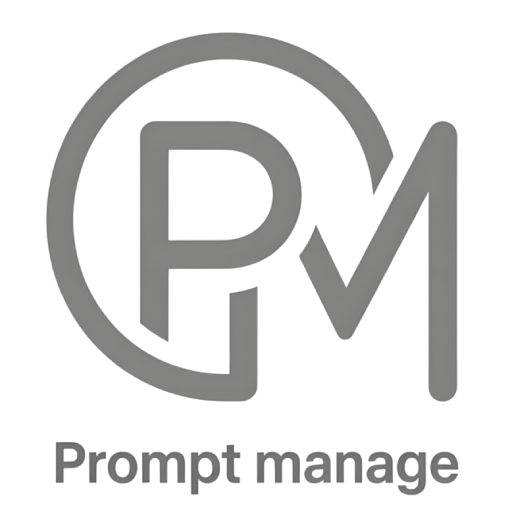
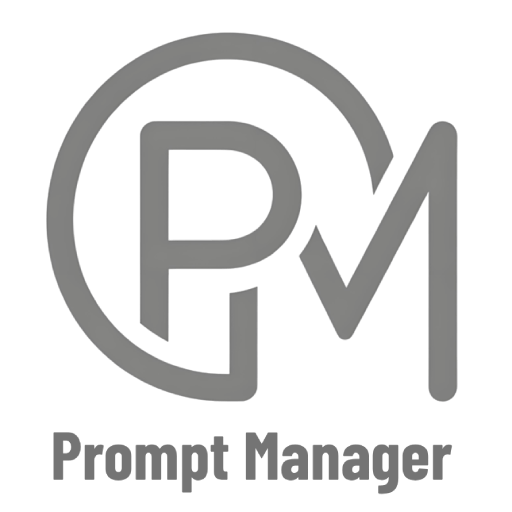
update repo name

Changed region(s): [[0.0938, 0.8438, 0.9062, 0.9688]]

diff --git a/app/desktop/main.js b/app/desktop/main.js
@@ -35,8 +35,8 @@ async function ensureRuntimeServerRoot() {
     return runtimeServerRoot;
   }
 
-  const packagedRoot = path.join(process.resourcesPath, 'prompt-server');
-  const runtimeRoot = path.join(app.getPath('userData'), 'prompt-server');
+  const packagedRoot = path.join(process.resourcesPath, 'prompt-manager');
+  const runtimeRoot = path.join(app.getPath('userData'), 'prompt-manager');
 
   try {
     await fs.promises.access(runtimeRoot, fs.constants.F_OK);
@@ -297,7 +297,7 @@ async function checkForUpdates() {
   try {
     const currentVersion = await getCurrentServiceVersion();
 
-    const response = await fetch('https://registry.npmjs.org/@becrafter/prompt-server');
+    const response = await fetch('https://registry.npmjs.org/@becrafter/prompt-manager');
     if (!response.ok) {
       throw new Error('无法获取最新版本信息');
     }
@@ -328,7 +328,7 @@ async function checkForUpdates() {
     });
 
     if (action === 1) {
-      shell.openExternal('https://github.com/BeCrafter/prompt-server/releases/latest');
+      shell.openExternal('https://github.com/BeCrafter/prompt-manager/releases/latest');
       return;
     }
 
@@ -358,8 +358,8 @@ async function checkForUpdates() {
 }
 
 async function performInPlaceUpgrade(version) {
-  const tarballUrl = `https://registry.npmjs.org/@becrafter/prompt-server/-/@becrafter/prompt-server-${version}.tgz`;
-  const tmpDir = await fs.promises.mkdtemp(path.join(os.tmpdir(), 'prompt-server-upgrade-'));
+  const tarballUrl = `https://registry.npmjs.org/@becrafter/prompt-manager/-/@becrafter/prompt-manager-${version}.tgz`;
+  const tmpDir = await fs.promises.mkdtemp(path.join(os.tmpdir(), 'prompt-manager-upgrade-'));
   const tarballPath = path.join(tmpDir, `${version}.tgz`);
 
   try {

diff --git a/packages/server/config.js b/packages/server/config.js
@@ -56,7 +56,7 @@ MCP Prompt Server - 智能 Prompt 管理服务器
   -v, --version              显示版本信息
 
 环境变量:
-  MCP_SERVER_NAME            服务器名称 (默认: prompt-server)
+  MCP_SERVER_NAME            服务器名称 (默认: prompt-manager)
   SERVER_PORT                服务器端口 (默认: 5621)
   PROMPTS_DIR                Prompts目录路径
   MCP_SERVER_VERSION         服务器版本
@@ -94,7 +94,7 @@ export class Config {
     this.port = cliArgs.port || process.env.SERVER_PORT || 5621;
     
     // 其他配置
-    this.serverName = process.env.MCP_SERVER_NAME || 'prompt-server';
+    this.serverName = process.env.MCP_SERVER_NAME || 'prompt-manager';
     this.serverVersion = process.env.MCP_SERVER_VERSION || '0.0.7';
     this.logLevel = process.env.LOG_LEVEL || 'info';
     this.maxPrompts = parseInt(process.env.MAX_PROMPTS) || 100;

diff --git a/app/cli/index.js b/app/cli/index.js
@@ -6,7 +6,7 @@ const COMMANDS = {
 };
 
 function printUsage() {
-  console.log(`Prompt Server CLI\n\n用法:\n  prompt-server [command] [options]\n\n可用命令:\n  start  启动服务 (默认)\n  run    启动服务 (同 start)\n\n示例:\n  prompt-server --port 6000\n  prompt-server start --prompts-dir ./examples/prompts`);
+  console.log(`Prompt Server CLI\n\n用法:\n  prompt-manager [command] [options]\n\n可用命令:\n  start  启动服务 (默认)\n  run    启动服务 (同 start)\n\n示例:\n  prompt-manager --port 6000\n  prompt-manager start --prompts-dir ./examples/prompts`);
 }
 
 function isOptionToken(token) {

diff --git a/README.md b/README.md
@@ -1,6 +1,6 @@
 # MCP Prompt Server
 
-[![npm version](https://badge.fury.io/js/%40becrafter%2Fprompt-server.svg)](https://www.npmjs.com/package/@becrafter/prompt-server)
+[![npm version](https://badge.fury.io/js/%40becrafter%2Fprompt-manager.svg)](https://www.npmjs.com/package/@becrafter/prompt-manager)
 [![License: MIT](https://img.shields.io/badge/License-MIT-yellow.svg)](https://opensource.org/licenses/MIT)
 [![Node.js Version](https://img.shields.io/badge/node-%3E%3D18.0.0-brightgreen)](https://nodejs.org/)
 
@@ -19,23 +19,23 @@
 
 ```bash
 # 全局安装
-npm install -g @becrafter/prompt-server
+npm install -g @becrafter/prompt-manager
 
 # 或作为项目依赖安装
-npm install @becrafter/prompt-server 
+npm install @becrafter/prompt-manager 
 ```
 
 ### 2. 启动服务器
 
 ```bash
 # 使用默认配置启动
-prompt-server
+prompt-manager
 
 # 指定提示词目录
-prompt-server --prompts-dir ./my-prompts
+prompt-manager --prompts-dir ./my-prompts
 
 # 指定端口
-prompt-server --port 5621
+prompt-manager --port 5621
 ```
 
 > 默认情况下，服务会在 `~/.prompt-manager/prompts` 下创建并读取提示词目录。第一次启动会将仓库中的 `examples/prompts` 同步过去，方便快速体验。
@@ -45,23 +45,23 @@ prompt-server --port 5621
 新版本的命令行逻辑已经集中在 `app/cli` 中，支持拓展式命令分发。常用用法保持不变：
 
 ```bash
-# 默认等价于 prompt-server start
-prompt-server
+# 默认等价于 prompt-manager start
+prompt-manager
 
 # 显式使用 start/run 命令
-prompt-server start --port 6000
-prompt-server run --prompts-dir ./examples/prompts
+prompt-manager start --port 6000
+prompt-manager run --prompts-dir ./examples/prompts
 
 # 获取帮助/版本信息
-prompt-server --help
-prompt-server --version
+prompt-manager --help
+prompt-manager --version
 ```
 
 后续如需增加自定义子命令，只需在 `app/cli/commands` 下添加对应实现并在 `app/cli/index.js` 注册即可。
 
 ## 桌面菜单应用（Electron）
 
-为了让非技术同学也能便捷地运行服务，仓库新增了一个 Electron 菜单栏应用，位于 `app/desktop`。打包后的应用会连同 Node.js 运行时、`prompt-server` 代码以及依赖一并分发，无需再额外配置环境。
+为了让非技术同学也能便捷地运行服务，仓库新增了一个 Electron 菜单栏应用，位于 `app/desktop`。打包后的应用会连同 Node.js 运行时、`prompt-manager` 代码以及依赖一并分发，无需再额外配置环境。
 
 ### 目录与结构
 
@@ -98,13 +98,13 @@ npm run dev
 npm run desktop:build
 ```
 
-`electron-builder` 会输出 macOS `.dmg`、Windows `.exe`（NSIS）以及 Linux `.AppImage` 安装包，`extraResources` 中包含 `prompt-server` 的源码与依赖，从而保证离线可用。
+`electron-builder` 会输出 macOS `.dmg`、Windows `.exe`（NSIS）以及 Linux `.AppImage` 安装包，`extraResources` 中包含 `prompt-manager` 的源码与依赖，从而保证离线可用。
 
 ### 升级机制
 
 菜单中的 “检查更新” 会：
 
-1. 读取当前运行的服务版本（`app.getPath('userData')/prompt-server/package.json`）
+1. 读取当前运行的服务版本（`app.getPath('userData')/prompt-manager/package.json`）
 2. 对比 npm Registry 上的最新版本
 3. 在用户确认后停止服务、下载最新 tarball、重新写入运行目录
 4. 通过 `npm install --omit=dev` 在沙盒目录中重新安装依赖
@@ -127,7 +127,7 @@ npm run desktop:build
 
 | 环境变量 | 描述 | 默认值 |
 |----------|------|--------|
-| `MCP_SERVER_NAME` | 服务器名称 | `prompt-server` |
+| `MCP_SERVER_NAME` | 服务器名称 | `prompt-manager` |
 | `SERVER_PORT` | 服务器端口 | `5621` |
 | `PROMPTS_DIR` | Prompts目录路径 | `~/.prompt-manager/prompts` |
 | `MCP_SERVER_VERSION` | 服务器版本 | `0.0.7` |
@@ -293,7 +293,7 @@ messages:
 ### 项目结构
 
 ```
-prompt-server/
+prompt-manager/
 ├── app/
 │   ├── cli/            # 命令行命令分发与共享工具
 │   └── desktop/        # Electron 菜单应用
@@ -311,8 +311,8 @@ prompt-server/
 
 ```bash
 # 克隆仓库
-git clone https://github.com/BeCrafter/prompt-server.git
-cd prompt-server
+git clone https://github.com/BeCrafter/prompt-manager.git
+cd prompt-manager
 
 # 安装依赖
 npm install
